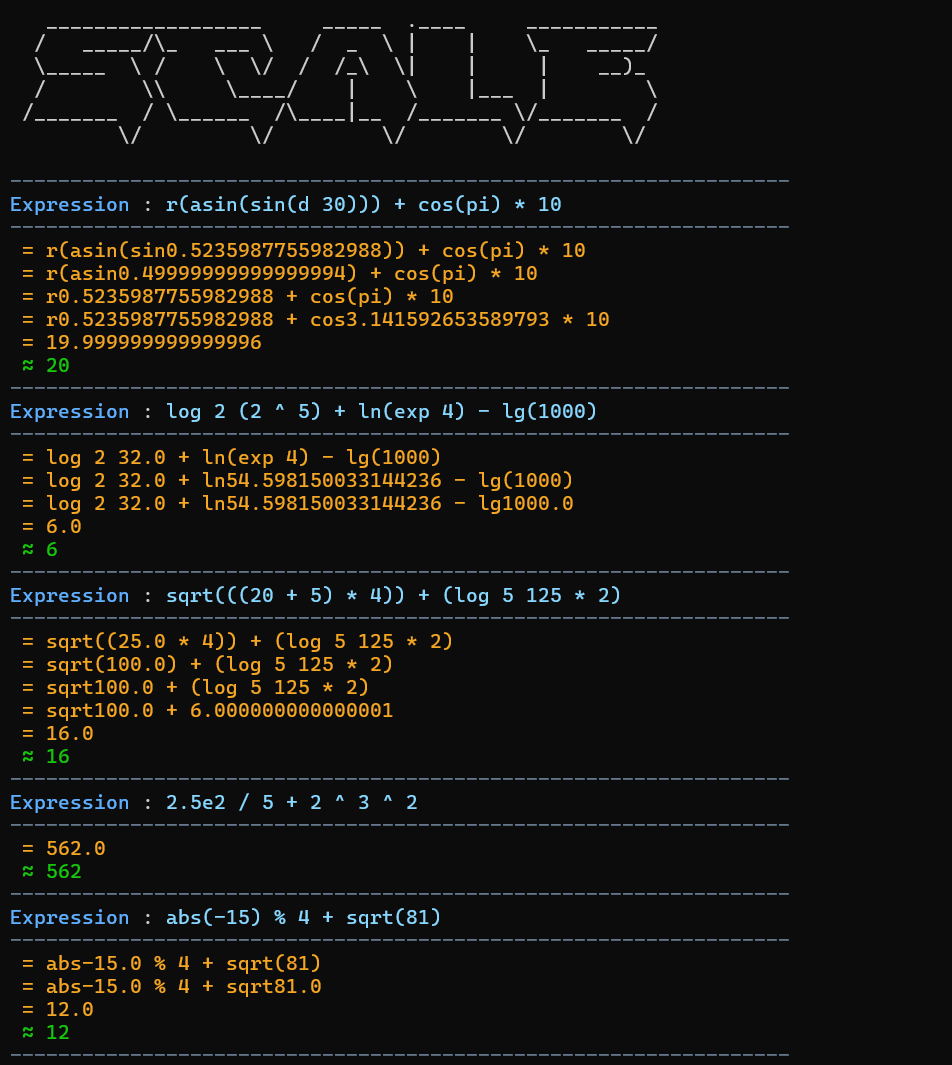
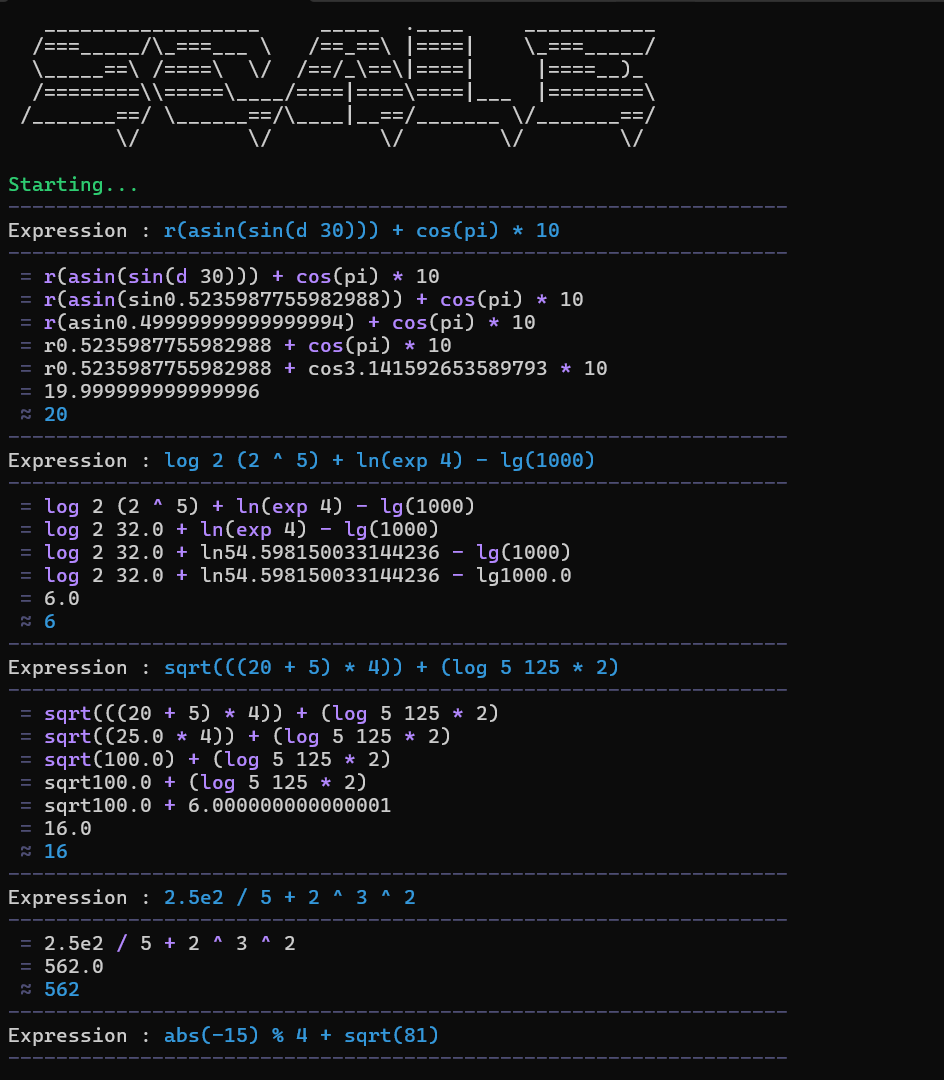
Refactor color constants and enhance output formatting in main.py

diff --git a/main.py b/main.py
@@ -4,17 +4,18 @@ import re
 
 NAME = r"""
    __________________     _____  .____     ___________
-  /   _____/\_   ___ \   /  _  \ |    |    \_   _____/
-  \_____  \ /    \  \/  /  /_\  \|    |     |    __)_ 
-  /        \\     \____/    |    \    |___  |        \
- /_______  / \______  /\____|__  /_______ \/_______  /
+  /===_____/\_===___ \   /==_==\ |====|    \_===_____/
+  \_____==\ /====\  \/  /==/_\==\|====|     |====__)_ 
+  /========\\=====\____/====|====\====|___  |========\
+ /_______==/ \______==/\____|__==/_______ \/_______==/
          \/         \/         \/        \/        \/ 
 """
-RED = "\033[38;2;255;56;100m"  # Neon Sunset Rose
-GREEN = "\033[38;2;38;230;136m"  # Phosphor Arcade Mint
-BLUE = "\033[38;2;74;144;255m"  # Laser Beam Blue
-GREY = "\033[38;2;88;80;105m"  # Smoky VHS Shadow (Mauve)
-YELLOW = "\033[38;2;255;184;77m"  # Neon Sunset Gold (Operators / Functions)
+
+RED = "\033[38;2;255;0;127m"  # Hot Magenta (Errors/Exiting)
+GREEN = "\033[38;2;46;204;113m"  # Natural Emerald (Startup)
+BLUE = "\033[38;2;52;152;219m"  # Clear Sky Blue (Input/Final Answer)
+GREY = "\033[38;2;77;77;115m"  # Deep Violet-Slate (Dividers)
+VIOLET = "\033[38;2;179;136;255m"  # Electric Violet (Steps)
 RESET = "\033[0m"
 
 action = {
@@ -181,10 +182,14 @@ def peeler(expression: str):
     return sub_expression, index_1, index_2
 
 
+FUNC_PATTERN = re.compile(
+    r"\b(?:sin|sinh|asin|asinh|cos|cosh|acos|acosh|tan|tanh|atan|atanh|log|ln|lg|exp|sqrt|abs|d|r)\b|[+/*%^\-]"
+)
+
+
 def colorize_numbers(text: str, base_color: str) -> str:
-    """Wraps numbers (including scientific notation and decimals) in NUM_COLOR."""
-    pattern = r"\d+\.\d+(?:[eE][-+]?\d+)?|\.\d+(?:[eE][-+]?\d+)?|\d+(?:[eE][-+]?\d+)?"
-    return re.sub(pattern, lambda m: f"{RESET}{m.group(0)}{base_color}", text)
+    colored_text = FUNC_PATTERN.sub(lambda m: f"{base_color}{m.group(0)}{RESET}", text)
+    return f"{RESET}{colored_text}"
 
 
 def format_display(val: float) -> str:
@@ -226,7 +231,7 @@ def main():
             pattern, lambda m: m.group(1) or f"{m.group(0)}*", expression
         )
 
-        print(f"{YELLOW} = {colorize_numbers(expression, YELLOW)}{RESET}")
+        print(f"{GREY} = {RESET}{VIOLET}{colorize_numbers(expression, VIOLET)}{RESET}")
 
         try:
             while ("(" in expression) or (")" in expression):
@@ -237,13 +242,15 @@ def main():
                     + f"{sub_expression_m}"
                     + expression[idx_end + 1 :]
                 )
-                print(f"{YELLOW} = {colorize_numbers(expression, YELLOW)}{RESET}")
+                print(
+                    f"{GREY} = {RESET}{VIOLET}{colorize_numbers(expression, VIOLET)}{RESET}"
+                )
 
             ans = evaluate_rpn(rpn_creator(expression))
-            print(f"{YELLOW} = {RESET}{ans}")
+            print(f"{GREY} = {RESET}{ans}")
 
             formatted_ans = format_display(float(ans))
-            print(f"{YELLOW} ≈ {BLUE}{formatted_ans}{RESET}")
+            print(f"{GREY} ≈ {BLUE}{formatted_ans}{RESET}")
 
         except IndexError:
             print(f"{RED}Error : Invalid syntax or missing operands{RESET}")
